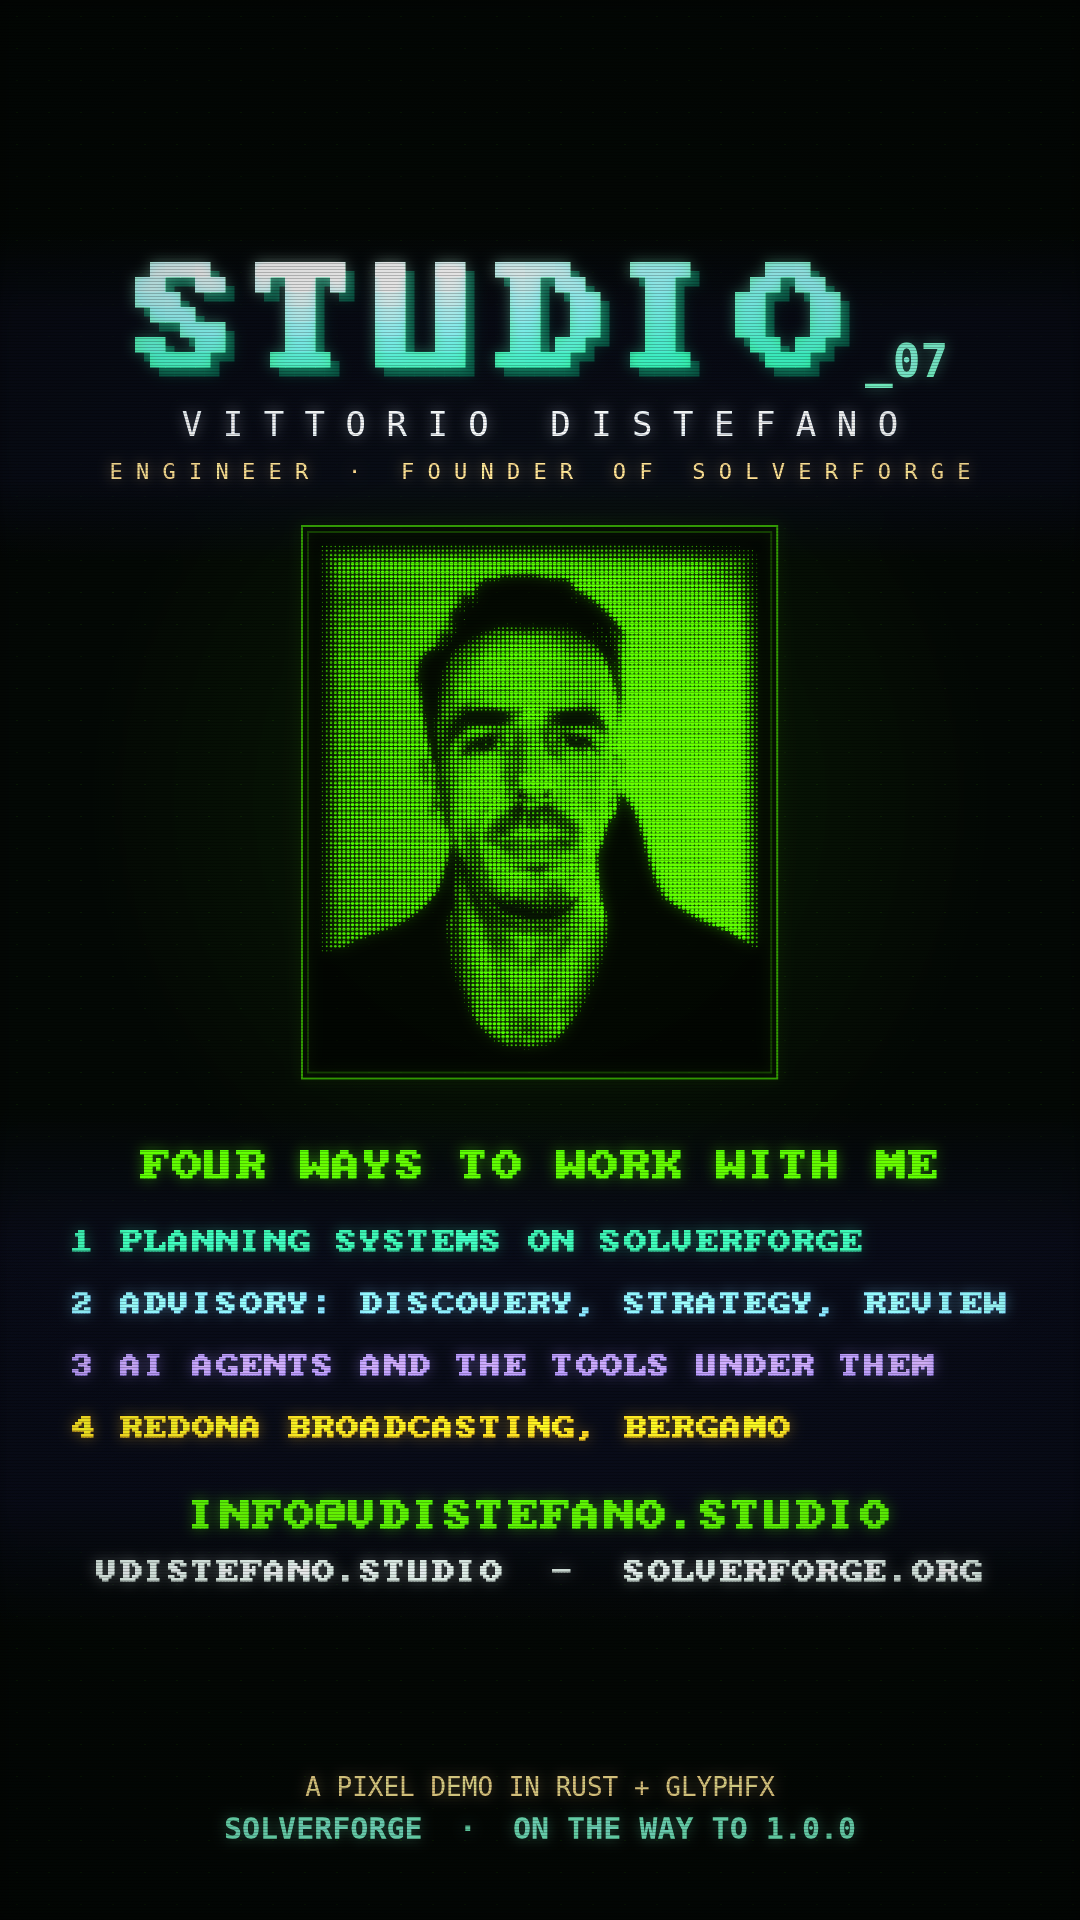
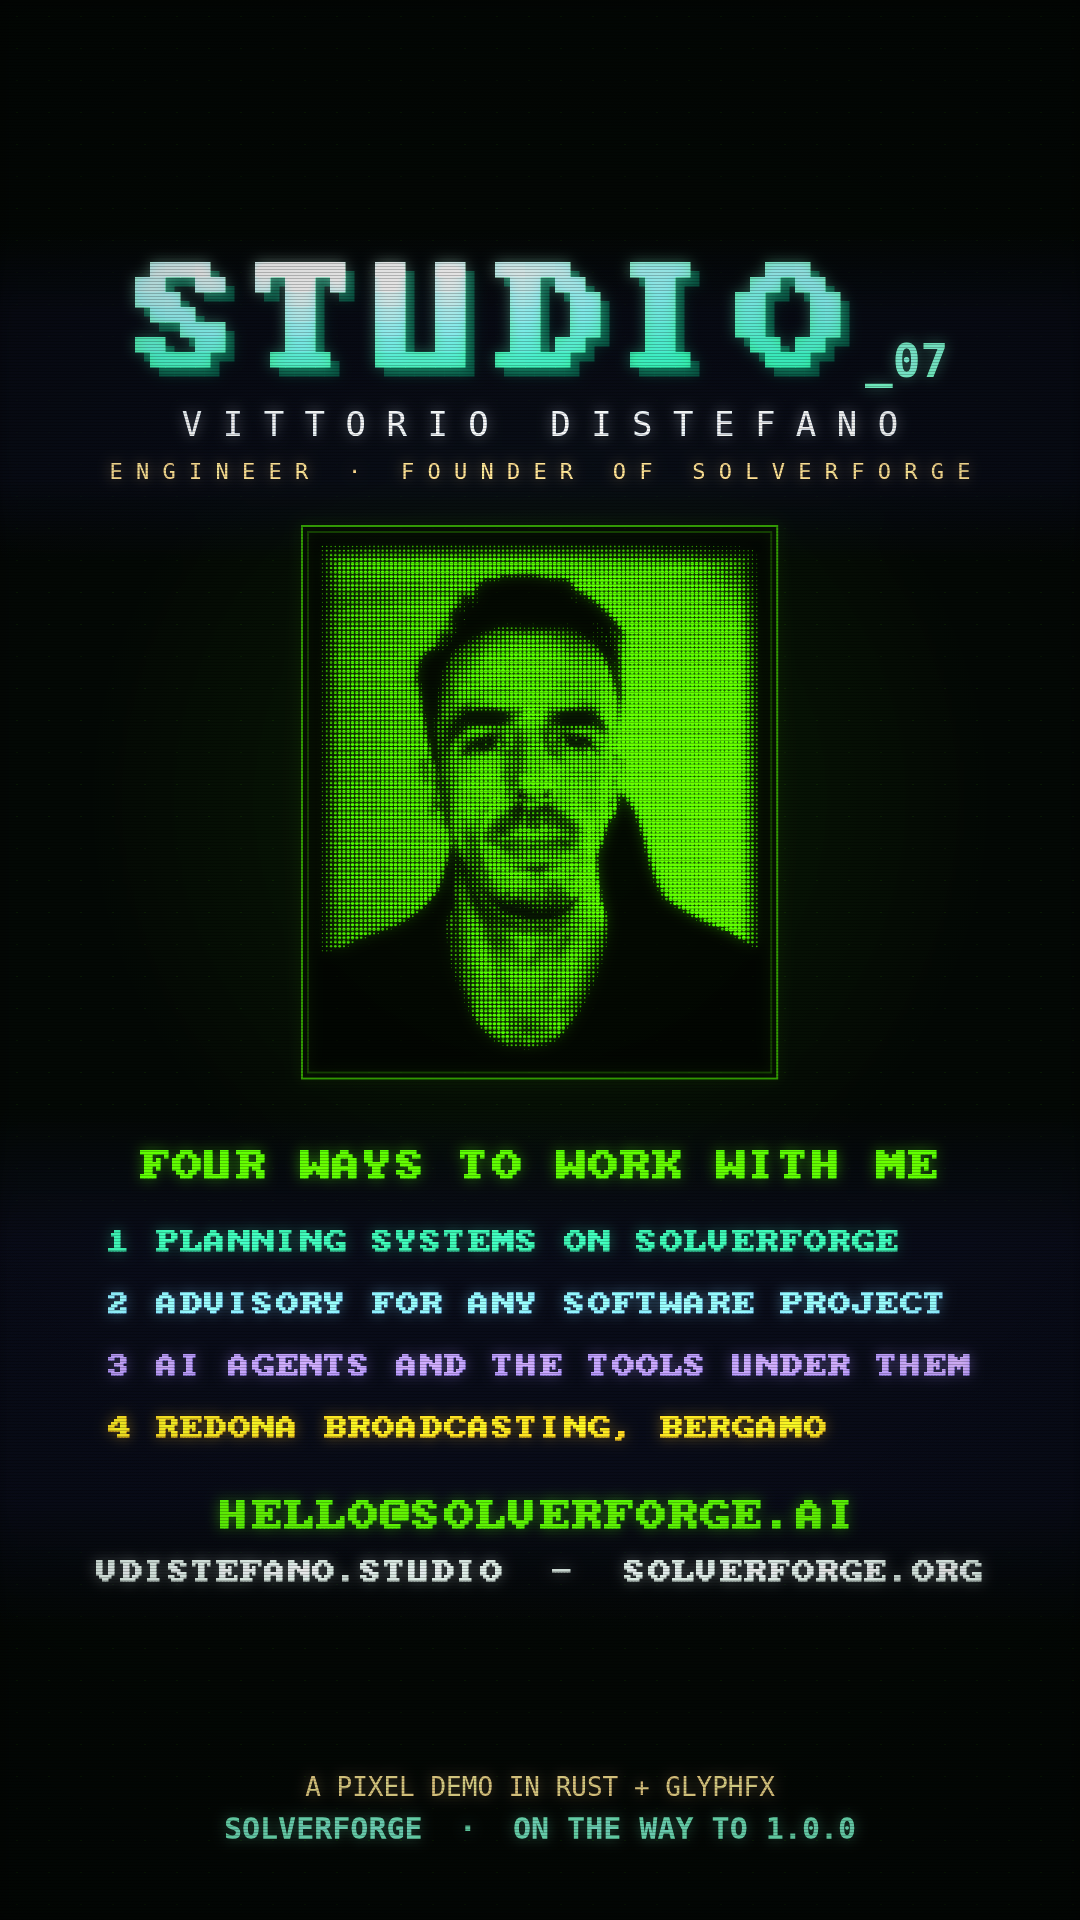
docs(studio_07): update the cover's address and advisory line

diff --git a/studio_07/docs/social/cover-9x16.html b/studio_07/docs/social/cover-9x16.html
@@ -58,7 +58,7 @@ function run(compose){document.fonts.load('30px "DejaVu Sans Mono"').then(()=>{c
 // phosphor halftone of studio_07/assets/portrait.pgm, brighter = bigger dot),
 // the name, and the four offers the demo presents, with the address.
 const LIME=[80,252,0], PAPERC=[236,253,245], GOLDC=[255,216,138];
-const OFFERS=[['PLANNING SYSTEMS ON SOLVERFORGE',[52,211,153]],['ADVISORY: DISCOVERY, STRATEGY, REVIEW',[125,211,252]],['AI AGENTS AND THE TOOLS UNDER THEM',[167,139,250]],['REDONA BROADCASTING, BERGAMO',[255,198,26]]];
+const OFFERS=[['PLANNING SYSTEMS ON SOLVERFORGE',[52,211,153]],['ADVISORY FOR ANY SOFTWARE PROJECT',[125,211,252]],['AI AGENTS AND THE TOOLS UNDER THEM',[167,139,250]],['REDONA BROADCASTING, BERGAMO',[255,198,26]]];
 const PW=104, PH=122;
[1 lines of base64/hex data omitted]
 function portrait(x0,y0,pitch){
@@ -86,7 +86,7 @@ function compose(){
   ptextC('FOUR WAYS TO WORK WITH ME',W/2,1150,4,rgb(LIME));
   const ow=Math.max(...OFFERS.map(([t])=>ptextWidth('1 '+t,3))), ox=Math.round((W-ow)/2);
   OFFERS.forEach(([t,c],i)=>{const s=(i+1)+' '+t;ptext(s,ox,1230+i*62,3,rgb(c));});
-  ptextC('INFO@VDISTEFANO.STUDIO',W/2,1500,4,rgb(LIME));
+  ptextC('HELLO@SOLVERFORGE.AI',W/2,1500,4,rgb(LIME));
   ptextC('VDISTEFANO.STUDIO  ·  SOLVERFORGE.ORG'.replace('·','-'),W/2,1560,3,rgb(PAPERC,.85));
   footer('A PIXEL DEMO IN RUST + GLYPHFX');
 }
